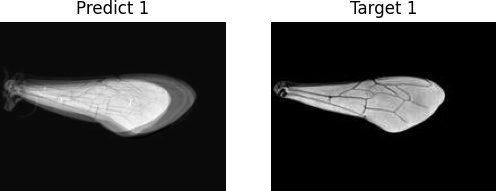
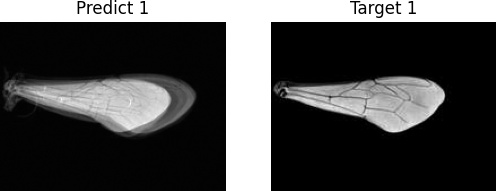
num_epochs = 400

diff --git a/run.py b/run.py
@@ -94,7 +94,7 @@ min_loss = float('inf')
 
 best_pred = None
 best_target = None
-num_epochs = 200
+num_epochs = 400
 
 for epoch in tqdm(range(num_epochs)):
     for batch_idx, (data, target) in enumerate(train_loader):
